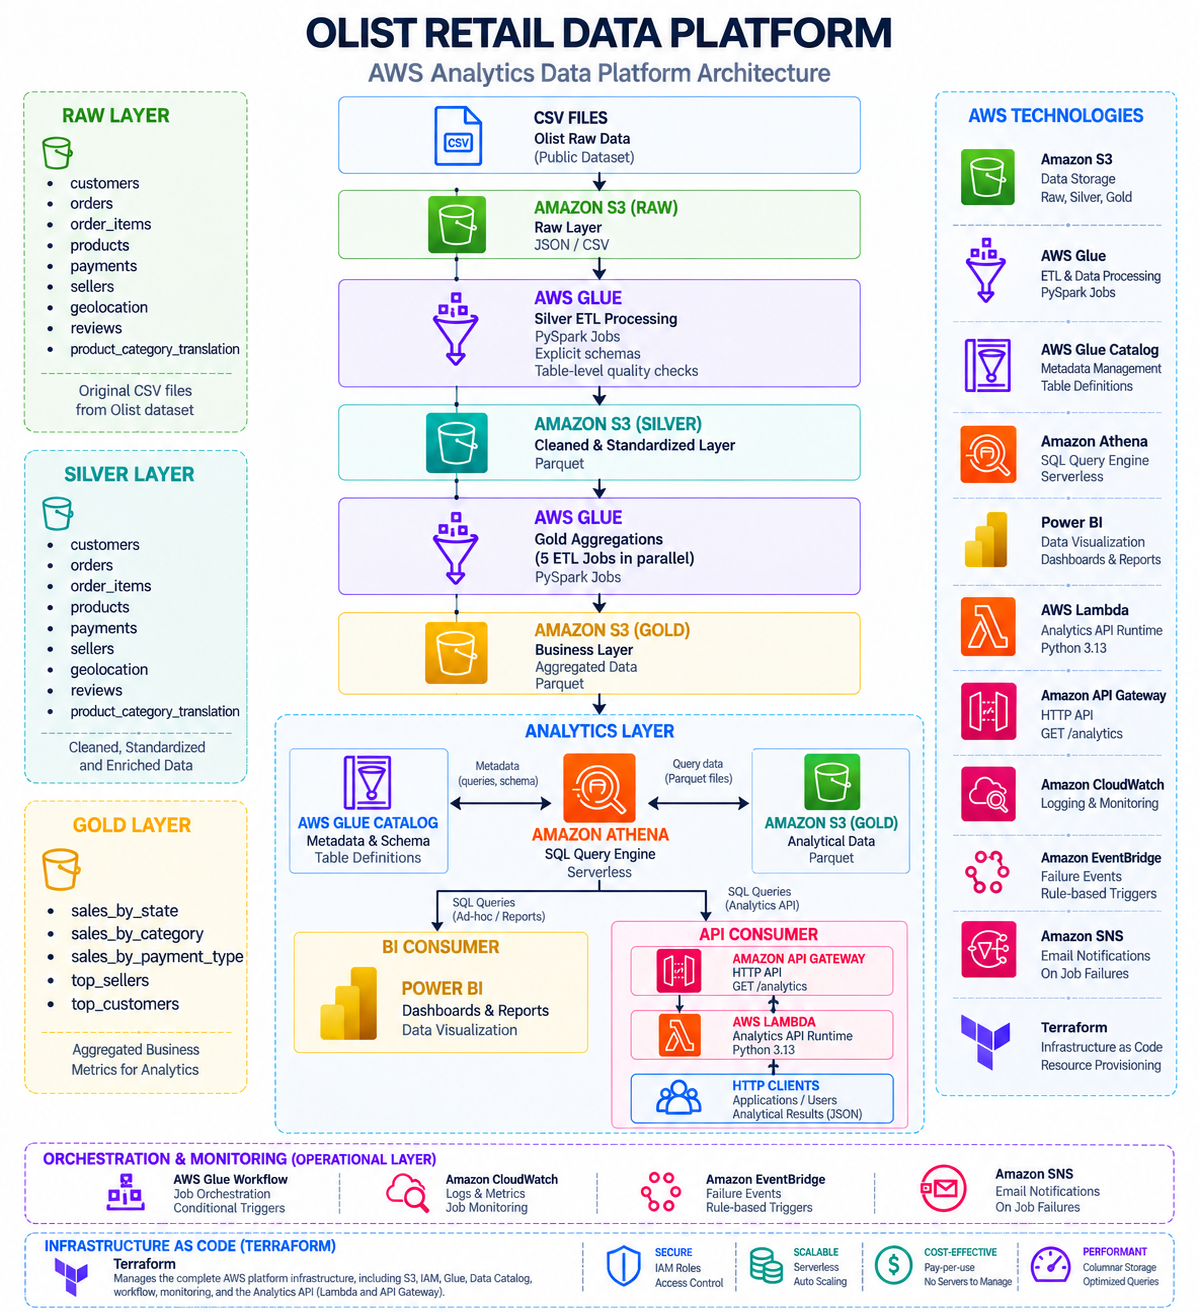
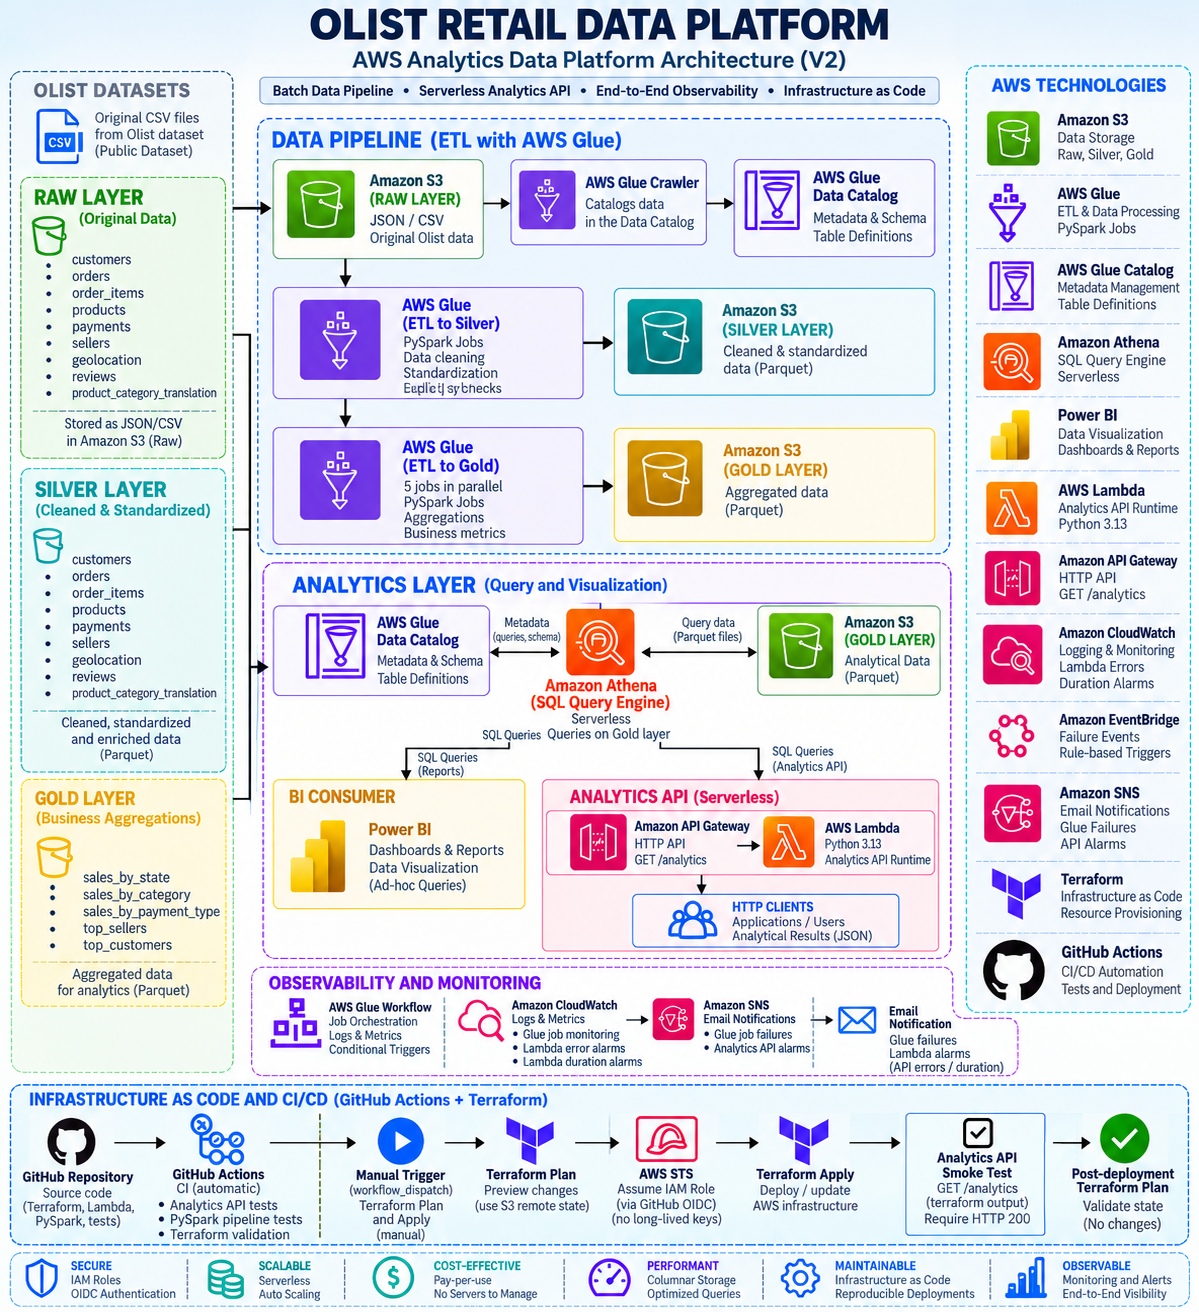
docs: finalize observability CI/CD and architecture documentation

diff --git a/README.md b/README.md
@@ -6,7 +6,7 @@ Portfolio project demonstrating an end-to-end AWS analytics data platform for th
 >
 > Analytics API status: the API under `functions/analytics_api/` is deployed as the `olist-analytics-api-dev` AWS Lambda using Python 3.13 and exposed through an Amazon API Gateway HTTP API. All five Gold analytical operations are implemented, covered by automated tests, and validated through the deployed Lambda. The HTTP path has also been validated end to end through API Gateway, Lambda, Athena, `olist_gold_db`, and S3 Gold data.
 >
-> CI/CD status: GitHub Actions runs automated Analytics API tests, PySpark pipeline tests, and Terraform validation. AWS deployments use GitHub OIDC to assume a dedicated IAM role without storing long-lived AWS access keys in GitHub. Separate manual Terraform Plan and Terraform Apply workflows use the S3 remote state; the deployment flow has been validated end to end, including a post-deployment plan returning `No changes`.
+> CI/CD and observability status: GitHub Actions runs automated Analytics API tests, PySpark pipeline tests, and Terraform validation. AWS deployments use GitHub OIDC to assume a dedicated IAM role without storing long-lived AWS access keys in GitHub. Separate manual Terraform Plan and Terraform Apply workflows use the S3 remote state. The Apply workflow includes a post-deployment smoke test that has been validated against the live Analytics API with HTTP 200. The API is also monitored through Terraform-managed CloudWatch error and duration alarms connected to Amazon SNS email notifications, with the alert path validated end to end.
 
 ## Documentation
 
@@ -148,6 +148,31 @@ Supported operations:
 ` sales_by_state ` · ` sales_by_category ` · ` sales_by_payment_type ` · ` top_customers ` · ` top_sellers `
 
 Requests default to `sales_by_state` and accept a validated `limit` from 1 to 100.
+
+### Analytics API monitoring
+
+The Analytics API is monitored with Amazon CloudWatch alarms for Lambda
+execution errors and unusually high execution duration.
+
+Both alarms publish notifications to the existing Amazon SNS alert topic.
+
+The monitoring path has been validated end to end:
+
+```text
+AWS Lambda
+    |
+    v
+Amazon CloudWatch Alarm
+    |
+    v
+Amazon SNS
+    |
+    v
+Email Notification
+
+
+![CloudWatch Analytics API alarm email notification](docs/screenshots/mail.png)
+```
 
 ## What this project demonstrates
 
@@ -291,6 +316,10 @@ Manual infrastructure deployment
     -> AWS STS / dedicated IAM role
     -> Terraform Apply
     -> AWS infrastructure
+    -> Analytics API Smoke Test
+       -> terraform output: analytics_api_url
+       -> HTTP GET
+       -> Require HTTP 200
     -> Post-deployment Terraform Plan
 ```
 
@@ -299,6 +328,9 @@ The deployment design intentionally separates validation, planning, and infrastr
 - The main CI workflow runs the Analytics API test suite, the Docker-based PySpark pipeline tests, and Terraform validation.
 - A dedicated Terraform Plan workflow can be triggered manually to preview infrastructure changes without modifying AWS resources.
 - A separate Terraform Apply workflow performs controlled infrastructure changes only when explicitly triggered.
+-After a successful Terraform deployment, the workflow performs an automated smoke test against the deployed Analytics API.
+- The workflow retrieves the API endpoint from the Terraform `analytics_api_url` output and sends a real HTTP request to the deployed API.
+- The smoke test validates that the endpoint returns HTTP 200. If the API does not respond successfully, the GitHub Actions deployment workflow fails.
 - GitHub Actions authenticates to AWS through the repository's OIDC trust relationship and assumes the `olist-github-actions-dev` IAM role. Long-lived AWS access keys are not stored in GitHub for these workflows.
 - The GitHub Actions role combines read-only discovery with explicit project deployment permissions, including access to the Terraform state and the AWS services managed by this repository.
 - Terraform state is stored remotely in Amazon S3 under the environment-specific state path, with S3 state locking enabled.
@@ -322,13 +354,13 @@ This confirms that the committed Terraform configuration, remote state, and depl
 | Amazon Athena | SQL validation and analytics |
 | AWS Lambda | Deployed Analytics API runtime and analytical request routing |
 | Amazon API Gateway | Deployed HTTP entry point exposing `GET /analytics` |
-| Amazon CloudWatch | Glue execution logs |
+| Amazon CloudWatch | Glue execution logs plus Analytics API error and duration alarms |
 | Amazon EventBridge | Glue failure-event routing |
-| Amazon SNS | Email failure notifications |
+| Amazon SNS | Email notifications for Glue failures and Analytics API alarms |
 | IAM | Access control |
 | Power BI | Dashboard and reporting |
 | Docker | Isolated local Spark tests |
-| GitHub Actions | Automated CI, Terraform planning, and controlled infrastructure deployment |
+| GitHub Actions | Automated CI, Terraform planning, controlled infrastructure deployment, and post-deployment API smoke testing |
 | GitHub OIDC / AWS STS | Short-lived AWS authentication for CI/CD without stored access keys |
 | Terraform | Reproducible AWS infrastructure definition with S3 remote state |
 
@@ -371,7 +403,19 @@ The editable dashboard is stored at `powerbi/olist_dashboard.pbix`.
 
 ## Deployment state
 
-The active AWS platform is managed through Terraform with remote state in Amazon S3. Core infrastructure and the Glue workflow have been reconciled and validated in AWS. The Analytics API infrastructure is also Terraform-managed, including Lambda packaging and deployment, IAM permissions, Amazon API Gateway HTTP API, Lambda proxy integration, routing, and invocation permissions. All five analytical operations have been validated through the deployed Lambda, and the HTTP API has been validated end to end. GitHub Actions now provides automated CI plus manually controlled Terraform Plan and Apply workflows. AWS authentication from GitHub uses OIDC and a dedicated IAM role instead of long-lived AWS access keys. The deployment workflow has been validated with a successful GitHub Actions apply followed by a Terraform plan reporting no infrastructure drift. AWS runtime evidence and current implementation status are recorded in `docs/project-status.md`.
+The active AWS platform is managed through Terraform with remote state in Amazon S3. Core infrastructure and the Glue workflow have been reconciled and validated in AWS.
+
+The Analytics API infrastructure is also Terraform-managed, including Lambda packaging and deployment, IAM permissions, Amazon API Gateway HTTP API, Lambda proxy integration, routing, invocation permissions, and CloudWatch alarms for Lambda errors and high execution duration.
+
+All five analytical operations have been validated through the deployed Lambda, and the HTTP API has been validated end to end.
+
+GitHub Actions provides automated CI plus manually controlled Terraform Plan and Apply workflows. AWS authentication from GitHub uses OIDC and a dedicated IAM role instead of long-lived AWS access keys.
+
+The Terraform Apply workflow also performs a post-deployment smoke test against the live Analytics API. The validated deployment returned HTTP 200 and completed with `Smoke test passed.`
+
+The CloudWatch -> SNS -> email notification path has also been validated end to end, with monitoring evidence stored in `docs/screenshots/mail.png`.
+
+AWS runtime evidence and current implementation status are recorded in `docs/project-status.md`.
 
 Use the [final deployment order](docs/deployments/final-deployment-order.md) rather than deploying individual files ad hoc.
 
@@ -381,11 +425,12 @@ Brazilian E-Commerce Public Dataset by Olist: <https://www.kaggle.com/datasets/o
 
 ## Roadmap
 
+## Roadmap
+
 - Complete remaining downstream validation and Power BI refresh checks.
 - Add authentication and authorization if the Analytics API is exposed beyond controlled development use.
-- Add API-specific observability, structured logging, metrics, and alarms.
+- Add structured application logging and additional custom metrics if deeper API diagnostics are required.
 - Add throttling and usage controls where appropriate.
-- Add post-deployment API smoke tests to the existing CI/CD workflows.
 - Optional Apache Iceberg evaluation if ACID table capabilities are required.
 
 ## Author

diff --git a/CHANGELOG.md b/CHANGELOG.md
@@ -41,6 +41,12 @@ All notable repository changes will be documented in this file. AWS deployment s
 - Terraform-managed Amazon API Gateway HTTP API exposing the Analytics API through `GET /analytics`.
 - API Gateway Lambda proxy integration, automatic `$default` stage deployment, CORS configuration, and least-privilege Lambda invocation permission.
 - Terraform output for the deployed Analytics API HTTP endpoint.
+- GitHub Actions CI/CD workflows for Terraform Plan and controlled Terraform Apply deployments.
+- GitHub OIDC authentication with a dedicated AWS IAM role, eliminating long-lived AWS access keys from the CI/CD deployment path.
+- Post-deployment Analytics API smoke test that resolves the deployed endpoint from Terraform output and requires an HTTP 200 response.
+- Terraform-managed Amazon CloudWatch alarms for Analytics API Lambda execution errors and high execution duration.
+- Amazon SNS integration for Analytics API CloudWatch alarm email notifications.
+- Monitoring evidence for the validated CloudWatch -> SNS -> email alert path in `docs/screenshots/mail.png`.
 
 ### Changed
 
@@ -82,3 +88,8 @@ All notable repository changes will be documented in this file. AWS deployment s
 - Redeployed `olist-analytics-api-dev` with multi-operation routing while preserving the default `sales_by_state` behavior.
 - Validated all five analytical operations end to end through the deployed Lambda against Athena and `olist_gold_db`.
 - Exposed and validated the Analytics API over HTTP through API Gateway, including default `sales_by_state` requests and parameterized `top_sellers` requests.
+- Extended the GitHub Actions deployment workflow with an automated post-deployment Analytics API smoke test.
+- Extended platform observability from Glue job monitoring to Analytics API Lambda error and duration monitoring.
+- Extended the existing SNS alerting path to include Analytics API CloudWatch alarms.
+- Validated the complete Terraform deployment workflow through GitHub Actions, including infrastructure deployment and a successful live API smoke test.
+- Updated the README and architecture documentation to reflect the deployed Analytics API, CI/CD workflow, observability, alerting, and post-deployment validation.
